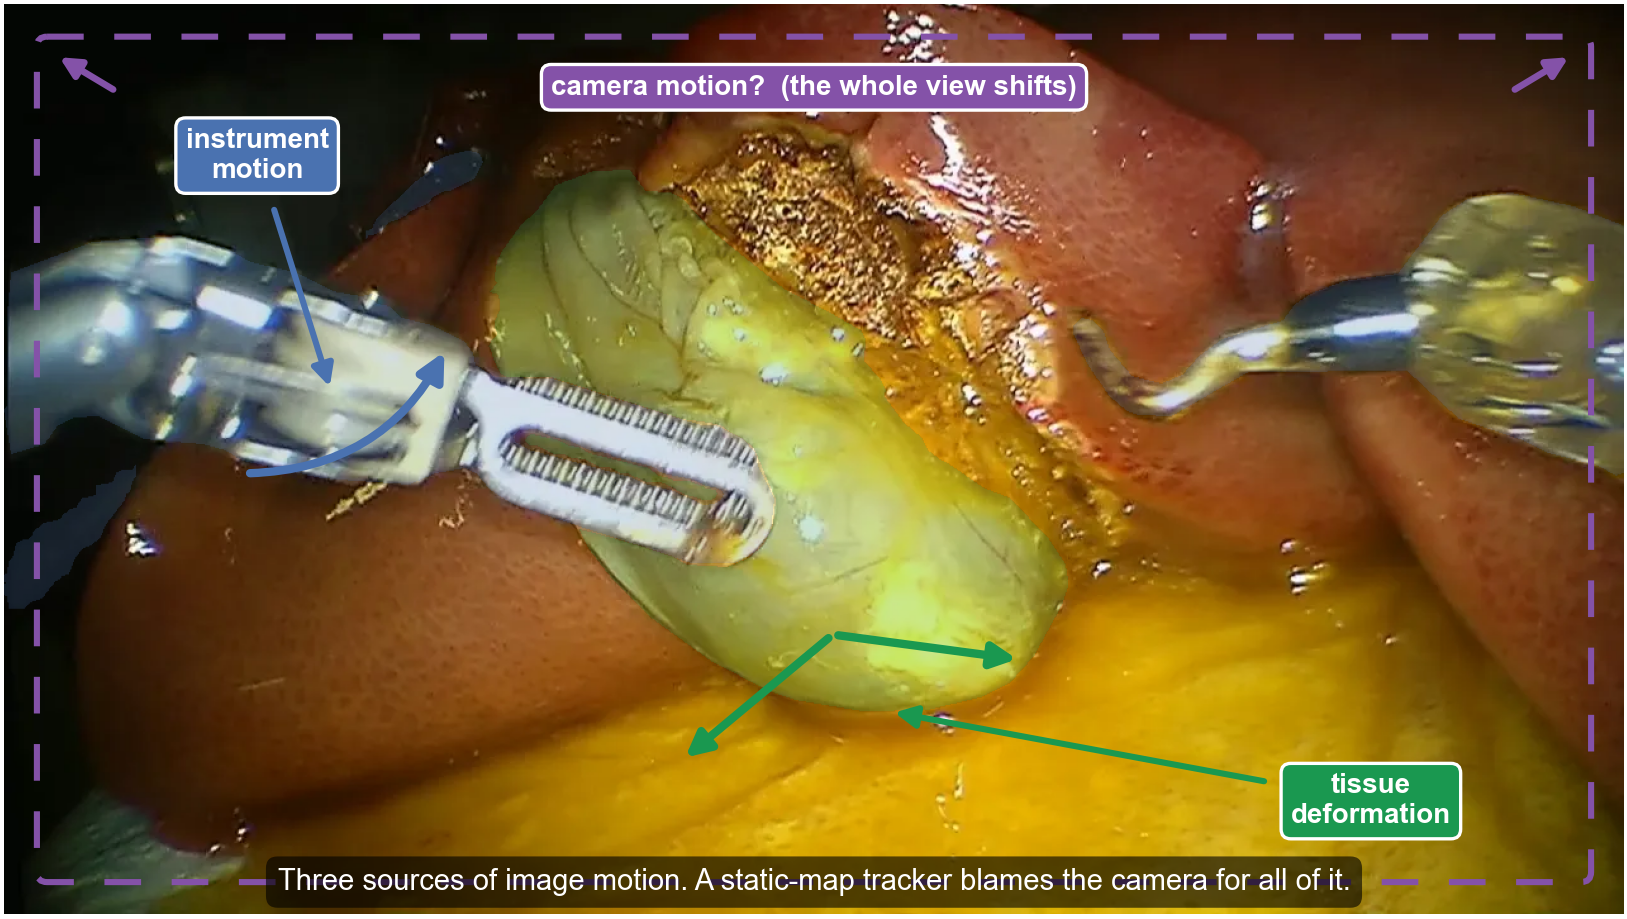
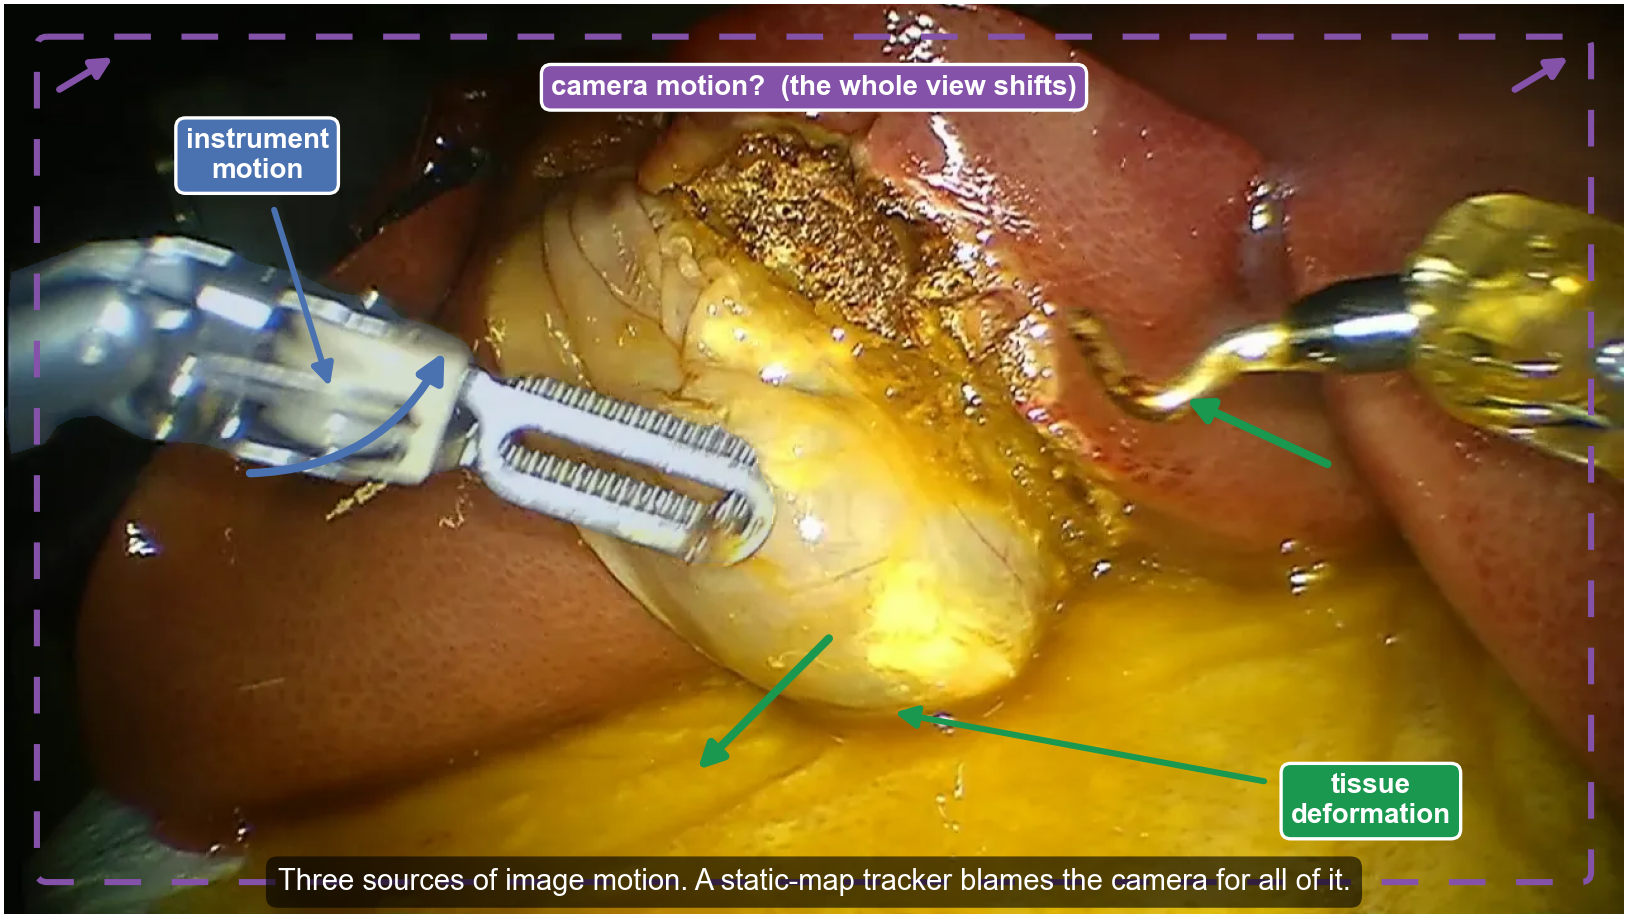
figures: problem figure -- camera arrows aligned, deformation on 2 tissues, tints trimmed
- left camera corner arrow flipped to match the right (both up-right = a consistent
  global view shift).
- one deformation arrow moved from the gallbladder onto the liver, pointing a
  different way (gallbladder pulled down-left, liver sheared up-left) -- two tissues
  deforming differently.
- removed the gallbladder tint and the background-tool tint; the instrument tint is
  now restricted to the foreground grasper's largest connected component, so the
  stray background tool fragments are no longer tinted.

diff --git a/Addons/viz/gen_problem_figure.py b/Addons/viz/gen_problem_figure.py
@@ -50,11 +50,13 @@ gcx, gcy = centroid(gb)
 fig, ax = plt.subplots(figsize=(8.4, 4.9), dpi=200)
 ax.imshow(rgb); ax.set_xlim(0, W); ax.set_ylim(H, 0); ax.axis('off')
 
-# subtle tints so the structures read
-for m, c in [(tool_left | ((sem == 3) & (np.arange(W)[None, :] >= 640)), BLUE), (gb, GREEN)]:
-    ov = np.zeros((H, W, 4)); rgba = matplotlib.colors.to_rgba(c)
-    ov[m] = (rgba[0], rgba[1], rgba[2], 0.22)
-    ax.imshow(ov)
+# subtle tint on the foreground grasper ONLY (largest tool component) -- no gallbladder, no
+# background tool, no stray fragments
+n, lbl = cv2.connectedComponents(tool_left.astype(np.uint8))
+grasper = lbl == (1 + int(np.argmax([(lbl == i).sum() for i in range(1, n)]))) if n > 1 else tool_left
+ov = np.zeros((H, W, 4)); rgba = matplotlib.colors.to_rgba(BLUE)
+ov[grasper] = (rgba[0], rgba[1], rgba[2], 0.22)
+ax.imshow(ov)
 
 
 def label(txt, tx, ty, px, py, col):
@@ -70,17 +72,20 @@ ax.add_patch(FancyArrowPatch((tcx - 70, tcy + 60), (tcx + 90, tcy - 40), connect
                              arrowstyle='-|>', mutation_scale=20, lw=3, color=BLUE, zorder=9))
 label('instrument\nmotion', 200, 120, tcx, tcy, BLUE)
 
-# 2 tissue deformation — stretch arrows on the LOWER gallbladder body, clear of the instrument
-gdx, gdy = gcx + 45, gcy + 135
-for ex, ey in [(gdx - 120, gdy + 100), (gdx + 150, gdy + 20)]:
-    ax.add_patch(FancyArrowPatch((gdx, gdy), (ex, ey), arrowstyle='-|>',
-                                 mutation_scale=18, lw=3, color=GREEN, zorder=9))
+# 2 tissue deformation — two tissues deforming in different directions: gallbladder + liver
+gdx, gdy = gcx + 45, gcy + 135                       # lower gallbladder body
+ax.add_patch(FancyArrowPatch((gdx, gdy), (gdx - 110, gdy + 110), arrowstyle='-|>',
+                             mutation_scale=18, lw=3, color=GREEN, zorder=9))     # gallbladder: pulled down
+lr = ((sem == 1) & (np.arange(W)[None, :] > 850) & (np.arange(H)[:, None] > 210) & (np.arange(H)[:, None] < 500))
+lcx, lcy = centroid(lr)                              # a liver region on the right
+ax.add_patch(FancyArrowPatch((lcx, lcy), (lcx - 120, lcy - 55), arrowstyle='-|>',
+                             mutation_scale=18, lw=3, color=GREEN, zorder=9))     # liver: sheared up-left
 label('tissue\ndeformation', W - 200, H - 90, gdx + 40, gdy + 60, GREEN)
 
 # 3 camera motion — global; dashed inner frame + corner arrows + label
 ax.add_patch(FancyBboxPatch((26, 26), W - 52, H - 52, boxstyle='round,pad=0,rounding_size=8',
                             fill=False, ec=PURP, lw=2.2, ls=(0, (6, 5)), zorder=6))
-for (ax0, ay0, ax1, ay1) in [(90, 70, 40, 40), (W - 90, 70, W - 40, 40)]:
+for (ax0, ay0, ax1, ay1) in [(40, 70, 90, 40), (W - 90, 70, W - 40, 40)]:
     ax.add_patch(FancyArrowPatch((ax0, ay0), (ax1, ay1), arrowstyle='-|>', mutation_scale=15, lw=2.4, color=PURP, zorder=7))
 ax.text(W / 2, 66, 'camera motion?  (the whole view shifts)', fontsize=10, fontweight='bold',
         color='white', ha='center', va='center', zorder=10,
@@ -95,4 +100,4 @@ fig.tight_layout()
 os.makedirs(FIG, exist_ok=True)
 out = os.path.join(FIG, 'problem_figure.png')
 fig.savefig(out, bbox_inches='tight', facecolor='white', pad_inches=0.02)
-print('wrote', out, '| tool', (round(tcx), round(tcy)), 'gb', (round(gcx), round(gcy)))
+print('wrote', out, '| tool', (round(tcx), round(tcy)), 'gb', (round(gcx), round(gcy)), 'liver', (round(lcx), round(lcy)))
